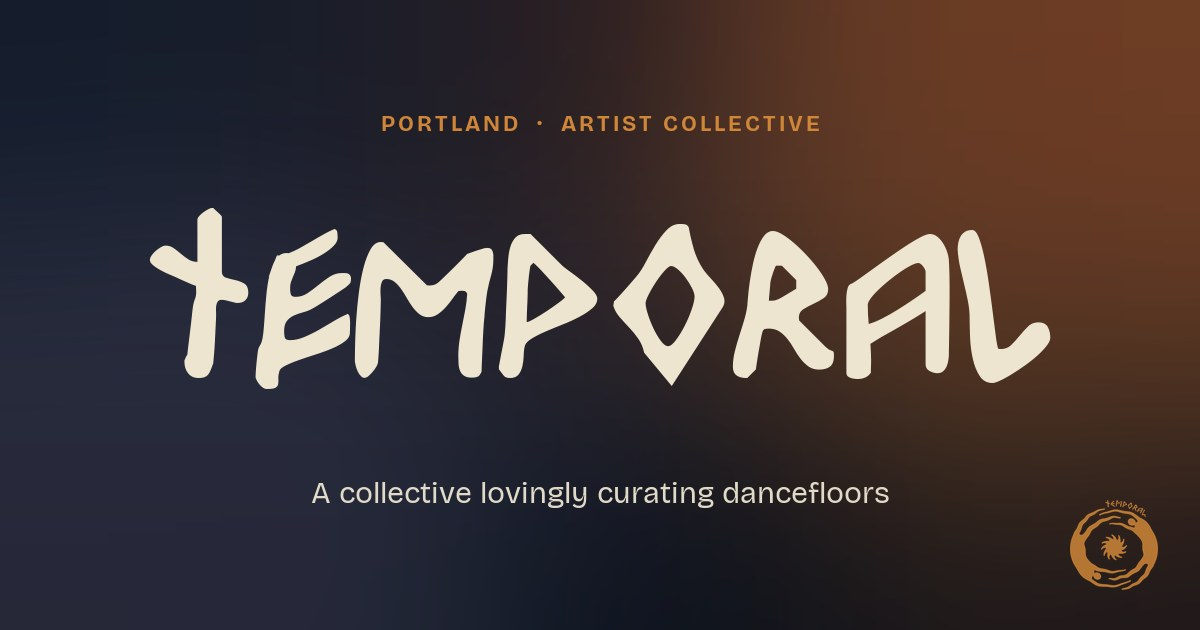
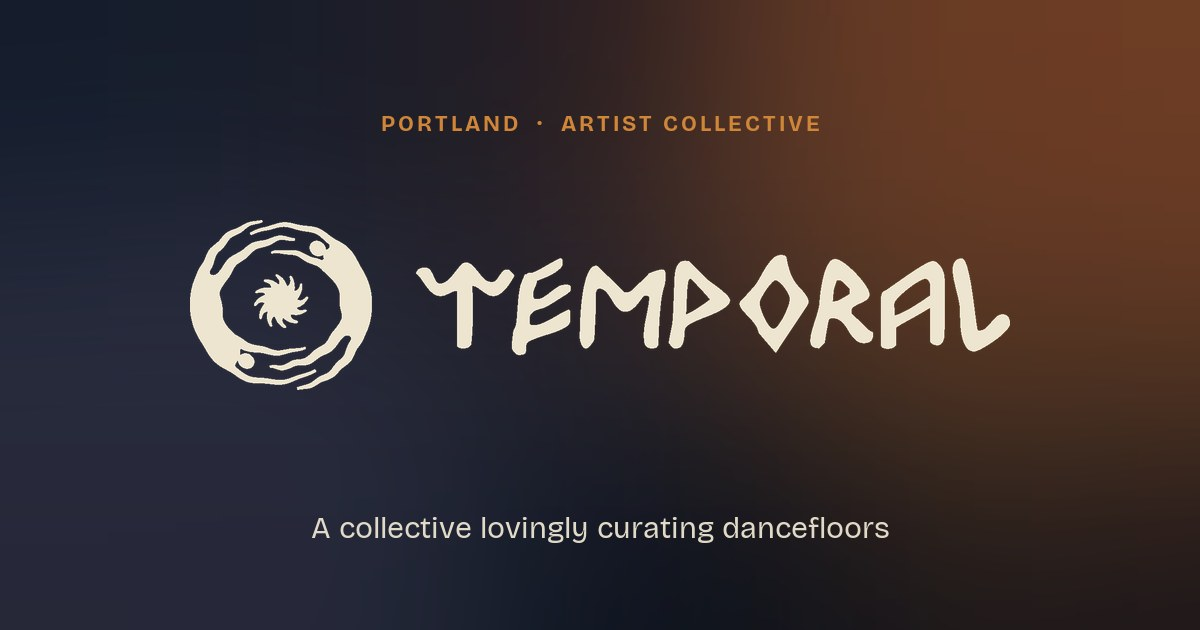
seo: use full header logotype in OG image
Replace the Odinson 'Temporal' text + bottom-right symbol with the
full brand/logo-mark.svg horizontal lockup (rendered to PNG via
qlmanage, recolored to stone at runtime). Now matches the header on
the homepage exactly. Eyebrow + tagline still in Bricolage.

Changed region(s): [[0.1233, 0.3317, 0.8942, 0.6333], [0.2467, 0.754, 0.74, 0.8746], [0.8942, 0.7841, 0.9867, 0.9349]]

diff --git a/scripts/make-og.py b/scripts/make-og.py
@@ -1,18 +1,23 @@
 """
 Generate a branded 1200x630 OG image for Temporal.
-Uses the same fonts as the landing page:
-  - Odinson for the "Temporal" wordmark
-  - Bricolage Grotesque (400/700) for eyebrow + tagline
+Uses the same fonts + logo as the landing page header:
+  - The full horizontal logotype (symbol + TEMPORAL) from brand/logo-mark.svg
+  - Bricolage Grotesque (400/700) for the eyebrow + tagline
+
+The SVG is pre-rendered to scripts/cache/logo-mark.png via:
+    sed 's/#ffffff/#000000/g' brand/logo-mark.svg > /tmp/logo-mark-black.svg
+    qlmanage -t -s 1600 -o scripts/cache /tmp/logo-mark-black.svg
+    mv scripts/cache/logo-mark-black.svg.png scripts/cache/logo-mark.png
+The cached PNG is recolored to white at runtime.
 """
-from PIL import Image, ImageDraw, ImageFont, ImageFilter
+from PIL import Image, ImageDraw, ImageFont, ImageFilter, ImageOps
 import os
 
 W, H = 1200, 630
 ROOT = "/Users/alevizio/temporal"
-ODINSON_PATH = f"{ROOT}/fonts/odinson.ttf"
+LOGO_LOCKUP = f"{ROOT}/scripts/cache/logo-mark.png"
 BRICOLAGE_700 = f"{ROOT}/scripts/fonts/bricolage-700.ttf"
 BRICOLAGE_400 = f"{ROOT}/scripts/fonts/bricolage-400.ttf"
-LOGO_SYMBOL_PATH = f"{ROOT}/brand/logo.png"
 OUT = f"{ROOT}/img/og-default.jpg"
 
 # Brand colors (R, G, B)
@@ -46,16 +51,9 @@ draw = ImageDraw.Draw(img)
 # --- Eyebrow: "Portland · Artist Collective" (Bricolage Bold, tracked) ---
 eyebrow_font = ImageFont.truetype(BRICOLAGE_700, 22)
 eyebrow_text = "PORTLAND  ·  ARTIST COLLECTIVE"
-# Manual letter-spacing — PIL has no native tracking control
-def draw_tracked(xy, text, font, fill, tracking_em=0.28):
-    x, y = xy
-    space = int(font.size * tracking_em)
-    for ch in text:
-        draw.text((x, y), ch, font=font, fill=fill)
-        bb = draw.textbbox((0, 0), ch, font=font)
-        x += (bb[2] - bb[0]) + space
 
-def measure_tracked(text, font, tracking_em=0.28):
+
+def measure_tracked(text, font, tracking_em):
     space = int(font.size * tracking_em)
     w = 0
     for i, ch in enumerate(text):
@@ -65,37 +63,56 @@ def measure_tracked(text, font, tracking_em=0.28):
             w += space
     return w
 
-ew = measure_tracked(eyebrow_text, eyebrow_font, 0.18)
-draw_tracked(((W - ew) / 2, 110), eyebrow_text, eyebrow_font, OCHER, 0.18)
 
-# --- Wordmark: "Temporal" in Odinson, huge ---
-wordmark_font = ImageFont.truetype(ODINSON_PATH, 240)
-wordmark = "Temporal"
-wbox = draw.textbbox((0, 0), wordmark, font=wordmark_font)
-ww = wbox[2] - wbox[0]
-wx = (W - ww) / 2 - wbox[0]
-wy = 175
-draw.text((wx, wy), wordmark, font=wordmark_font, fill=STONE)
+def draw_tracked(xy, text, font, fill, tracking_em):
+    x, y = xy
+    space = int(font.size * tracking_em)
+    for ch in text:
+        draw.text((x, y), ch, font=font, fill=fill)
+        bb = draw.textbbox((0, 0), ch, font=font)
+        x += (bb[2] - bb[0]) + space
+
+
+eb_track = 0.18
+ew = measure_tracked(eyebrow_text, eyebrow_font, eb_track)
+draw_tracked(((W - ew) / 2, 110), eyebrow_text, eyebrow_font, OCHER, eb_track)
+
+# --- Full horizontal logotype (symbol + TEMPORAL), recolored to stone ---
+logo = Image.open(LOGO_LOCKUP).convert("RGBA")
+# Trim transparent/white border to find tight bbox of the artwork
+gray = ImageOps.invert(logo.convert("L"))     # so dark logo → bright on black
+bbox = gray.getbbox()
+if bbox:
+    logo = logo.crop(bbox)
+
+# Recolor: every opaque-darkish pixel becomes stone color (white-ish)
+data = logo.load()
+for y in range(logo.height):
+    for x in range(logo.width):
+        r, g, b, a = data[x, y]
+        # If pixel is dark (the original artwork)
+        if a > 0 and (r + g + b) < 600:  # darkish
+            data[x, y] = (*STONE, a)
+        else:
+            data[x, y] = (0, 0, 0, 0)
+
+# Resize to fit OG composition: width target ~820px (logotype is ~4.83:1)
+target_w = 820
+ratio = target_w / logo.width
+target_h = int(logo.height * ratio)
+logo = logo.resize((target_w, target_h), Image.LANCZOS)
+
+# Center horizontally, vertically positioned in the middle band
+lx = (W - logo.width) // 2
+ly = (H - logo.height) // 2 - 10
+img.paste(logo, (lx, ly), logo)
 
 # --- Tagline (Bricolage Regular) ---
 tag_font = ImageFont.truetype(BRICOLAGE_400, 30)
 tagline = "A collective lovingly curating dancefloors"
 tbox = draw.textbbox((0, 0), tagline, font=tag_font)
 tw = tbox[2] - tbox[0]
-draw.text(((W - tw) / 2, 475), tagline, font=tag_font, fill=(225, 218, 200))
-
-# --- Brand symbol bottom-right ---
-if os.path.exists(LOGO_SYMBOL_PATH):
-    symbol = Image.open(LOGO_SYMBOL_PATH).convert("RGBA")
-    # Recolor to ocher: replace black pixels with ocher
-    px = symbol.load()
-    for y in range(symbol.height):
-        for x in range(symbol.width):
-            r, g, b, a = px[x, y]
-            if a > 0:
-                px[x, y] = (*OCHER, int(a * 0.85))
-    symbol.thumbnail((90, 90), Image.LANCZOS)
-    img.paste(symbol, (W - 130, H - 130), symbol)
+draw.text(((W - tw) / 2, 510), tagline, font=tag_font, fill=(225, 218, 200))
 
 # Save
 img.save(OUT, "JPEG", quality=88, optimize=True)
